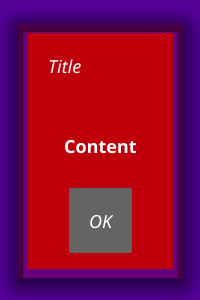
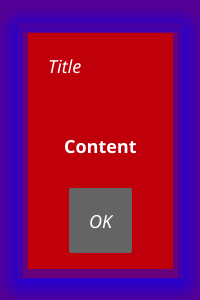
Updated test and PR feedback

Changed region(s): [[0.0, 0.03, 0.99, 1.0]]

diff --git a/widget/popup.go b/widget/popup.go
@@ -32,7 +32,7 @@ func (p *PopUp) Hide() {
 	p.BaseWidget.Hide()
 }
 
-// Refresh the background for a modal popup and hte content of this popup.
+// Refresh the background for a modal popup and the content of this popup.
 func (p *PopUp) Refresh() {
 	if p.modal && p.overlay != nil {
 		th := p.Theme()
@@ -282,6 +282,7 @@ func (r *modalPopUpRenderer) Refresh() {
 	r.background.FillColor = th.Color(theme.ColorNameOverlayBackground, v)
 	r.popUp.Content.Refresh()
 	r.background.Refresh()
+	r.ShadowingRenderer.RefreshShadow()
 }
 
 func withRelativePosition(rel fyne.Position, to fyne.CanvasObject, f func(position fyne.Position)) {

diff --git a/widget/popup_test.go b/widget/popup_test.go
@@ -2,7 +2,6 @@ package widget
 
 import (
 	"image/color"
-	"log"
 	"testing"
 
 	"fyne.io/fyne/v2"
@@ -553,8 +552,6 @@ func TestModelPopUp_ResizeBeforeShow_CanvasSizeZero(t *testing.T) {
 
 	// get content padding dynamically
 	popContentPadding := pop.MinSize().Subtract(pop.Content.MinSize())
-
-	log.Println("SSS", pop.Size(), pop.Content.Size())
 	assert.Equal(t, popBgSize.Subtract(popContentPadding), pop.Content.Size())
 	assert.Equal(t, popBgSize, pop.Size())
 }